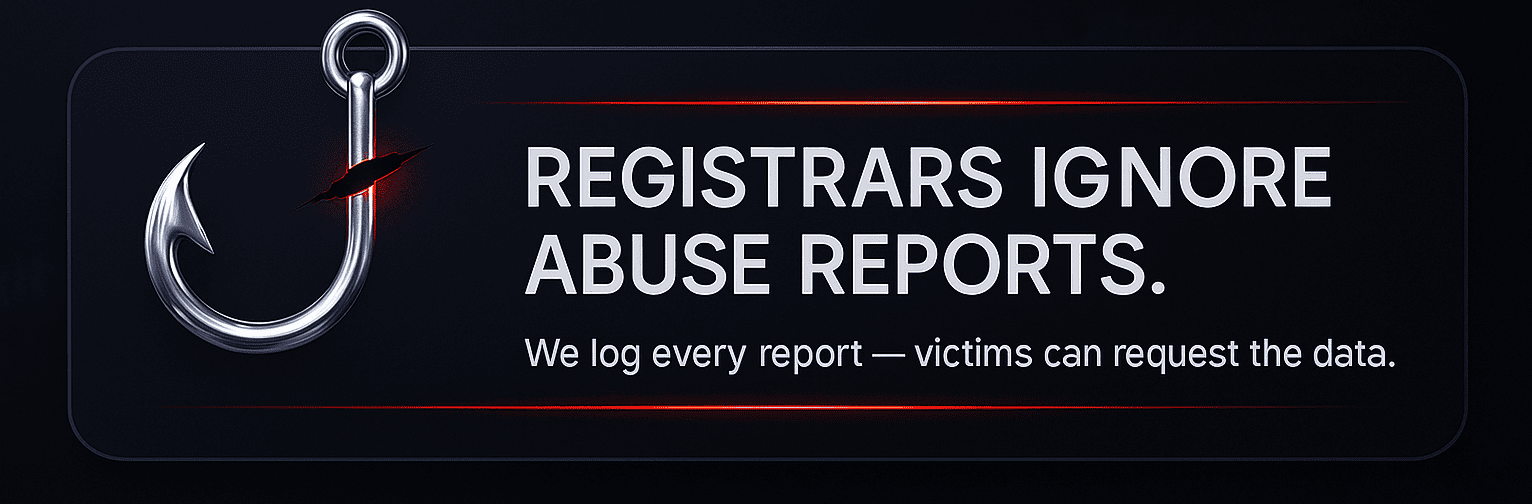
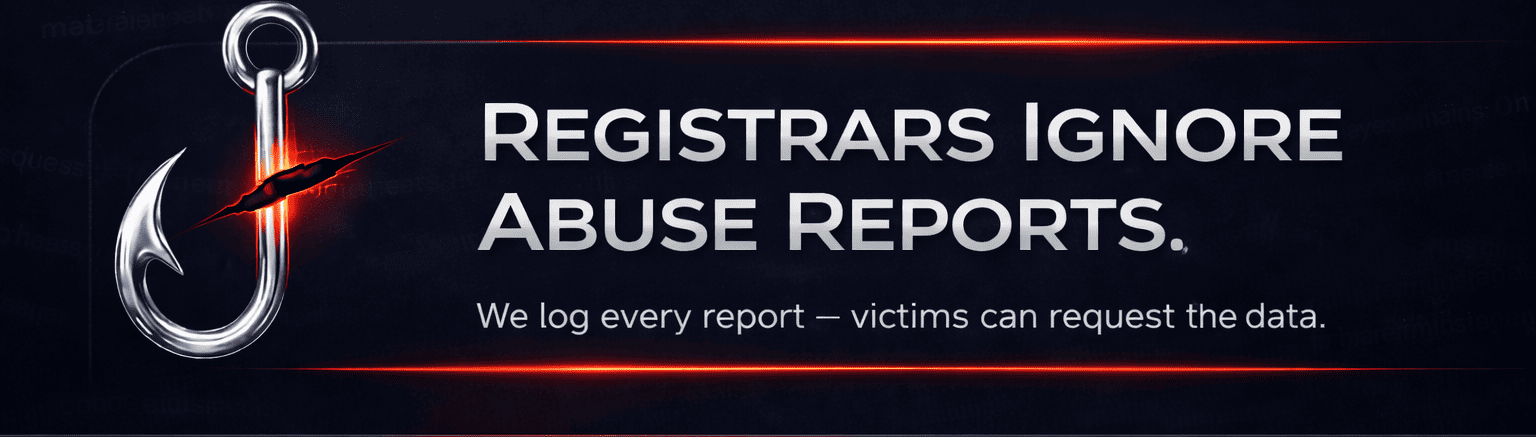
upd

diff --git a/README.md b/README.md
@@ -86,6 +86,9 @@ Protect the web, one domain at a time!
 
 <img src="https://raw.githubusercontent.com/Tarikul-Islam-Anik/Telegram-Animated-Emojis/main/People/Man%20Teacher.webp" alt="Man Teacher" width="25" height="25" /> Quick Integration
 
+<details>
+<summary><strong>Integration examples (Python · Bash · DNS)</strong> — expand to view</summary>
+
 ### Python
 ```python
 import requests
@@ -103,11 +106,70 @@ curl -s https://raw.githubusercontent.com/phishdestroy/destroylist/main/list.txt
 https://raw.githubusercontent.com/phishdestroy/destroylist/main/dns/active_domains.json
 ```
 
+</details>
+
+## 🛡 Threat Intelligence & Automated Remediation Workflow
+![DestroyList Banner](about.png)
+<details>
+<summary><strong>Expand full workflow details</strong> — click to view</summary>
+
+Our project is a non-profit, open‑source initiative dedicated to the proactive discovery and neutralization of phishing and scam infrastructure. We operate a high‑velocity pipeline that transforms raw telemetry into actionable intelligence for the global security community.
+
+---
+
+### 📡 Phase 1: Pre‑emptive Discovery & Ingestion
+
+We utilize a distributed network of **30+ proprietary parsers** to identify malicious domains at their earliest stage:
+
+* **Advanced Heuristics:** Continuous monitoring of Google Ads (Malvertising), SEO‑manipulated search results, and trending social media campaigns on Twitter (X), YouTube, and Telegram.
+* **Infrastructure Analysis:** Leveraging *dnstwist* and typosquatting detection to catch look‑alike domains targeting established brands.
+* **Community Intelligence:** Real‑time ingestion of community‑reported threats via our Telegram Bot and partner intelligence feeds.
+
+---
+
+### 📤 Phase 2: Global Ecosystem Contribution (Reporting to 50+ Vendors)
+
+Once a threat is confirmed, we actively alert the global security ecosystem. We submit data to over **50 industry‑leading vendors** to ensure their protection layers stay updated and users are warned:
+
+```
+Cloudflare        Google Safe Browsing      Microsoft Security      VirusTotal
+Netcraft          ESET                      Bitdefender             Norton Safe Web
+Avira             PhishTank                 Dr.Web                  Yandex Safe Browsing
+URLScan.io        PolySwarm                 SiteReview              Urlquery
+PhishStats        PhishReport               IsItPhish               ThreatCenter
+```
+
+---
+
+### ⚖ Phase 3: Legal Notifications & Investigation Support
+
+To ensure threats are handled through legitimate channels, our system initiates a structured reporting process:
+
+* **Abuse Notifications:** Formal alerts are dispatched to domain registrars and hosting providers, requesting investigation through official abuse channels.
+* **Forensic Evidence Disclosure:** We provide complete evidence packages including metadata, high‑resolution screenshots, and PDF reports to support rapid triage.
+* **ICANN Compliance Support:** Reports are aligned to support ICANN standards and provider due‑diligence workflows.
+* **Conditional Re‑Detection Logic:** Follow‑up alerts are triggered only if a threat is re‑detected and remains active beyond 24 hours — preventing noise while identifying persistent malicious infrastructure.
+
+---
+
+### 🌐 Phase 4: Public Transparency & Community Alerts
+
+As an open‑source initiative, we ensure instant accessibility for public safety:
+
+* **Open Database:** Verified threats are committed in real‑time to this GitHub repository.
+* **Live Monitoring:** Real‑time visual intelligence is available at [https://phishdestroy.io/live/](https://phishdestroy.io/live/).
+* **Social Broadcasting:** Automated, high‑priority OSINT alerts are published to Twitter (X), Telegram, and Mastodon.
+
+</details>
+
 ## <img src="https://raw.githubusercontent.com/Tarikul-Islam-Anik/Telegram-Animated-Emojis/main/People/Man%20Police%20Officer.webp" alt="Man Police Officer" width="25" height="25" /> <img src="https://raw.githubusercontent.com/Tarikul-Islam-Anik/Telegram-Animated-Emojis/main/Symbols/Double%20Exclamation%20Mark.webp" alt="Double Exclamation Mark" width="25" height="25" />  Key Info for Online Fraud Victims <img src="https://raw.githubusercontent.com/Tarikul-Islam-Anik/Telegram-Animated-Emojis/main/People/Person%20Facepalming.webp" alt="Person Facepalming" width="25" height="25" />
 
 [![Typing SVG](https://readme-typing-svg.demolab.com?font=Fira+Code&size=15&pause=1000&color=F71313&width=435&lines=Bulletproof+registrars+should+not+exist)](https://git.io/typing-svg)
 
 ![DestroyList Banner](abuse.png)
+
+<details>
+<summary><strong>Show details about complaints and transparency</strong> — click to view</summary>
 
 <img src="https://raw.githubusercontent.com/Tarikul-Islam-Anik/Telegram-Animated-Emojis/main/Objects/Briefcase.webp" alt="Briefcase" width="25" height="25" />DestroyList aims to disable malicious domains: scams, phishing, and other illicit sites to enhance internet safety.
 
@@ -119,7 +181,6 @@ Before a domain is added, we:
 
 <img src="https://raw.githubusercontent.com/Tarikul-Islam-Anik/Telegram-Animated-Emojis/main/Travel%20and%20Places/Police%20Car.webp" alt="Police Car" width="25" height="25" /> According to ICANN rules, registrars must review such complaints within 24 hours.
 
---------------------------------------------------------------------
 [![Typing SVG](https://readme-typing-svg.demolab.com?font=Fira+Code&size=17&pause=1000&color=F722EF&width=435&lines=Profit+from+victims+%E2%80%94+become+one+yourself.)](https://git.io/typing-svg)
 
 <img src="https://raw.githubusercontent.com/Tarikul-Islam-Anik/Telegram-Animated-Emojis/main/Animals%20and%20Nature/T%20Rex.webp" alt="T Rex" width="25" height="25" /> We work hard to eliminate threats quickly. Every malicious domain is analyzed, documented, reported, and published transparently.  
@@ -144,6 +205,8 @@ Private individuals may request the number of abuse reports we have sent for a s
 
 Official government or law-enforcement requests may be answered privately.
 
+</details>
+</details>
 --------------------------------------------------------------------
 
 <img src="https://raw.githubusercontent.com/Tarikul-Islam-Anik/Telegram-Animated-Emojis/main/Symbols/Mending%20Heart.webp" alt="Mending Heart" width="25" height="25" />If you were defrauded by a domain already listed here, check its addition date using the commit history or via our Telegram/Mastodon channels.
